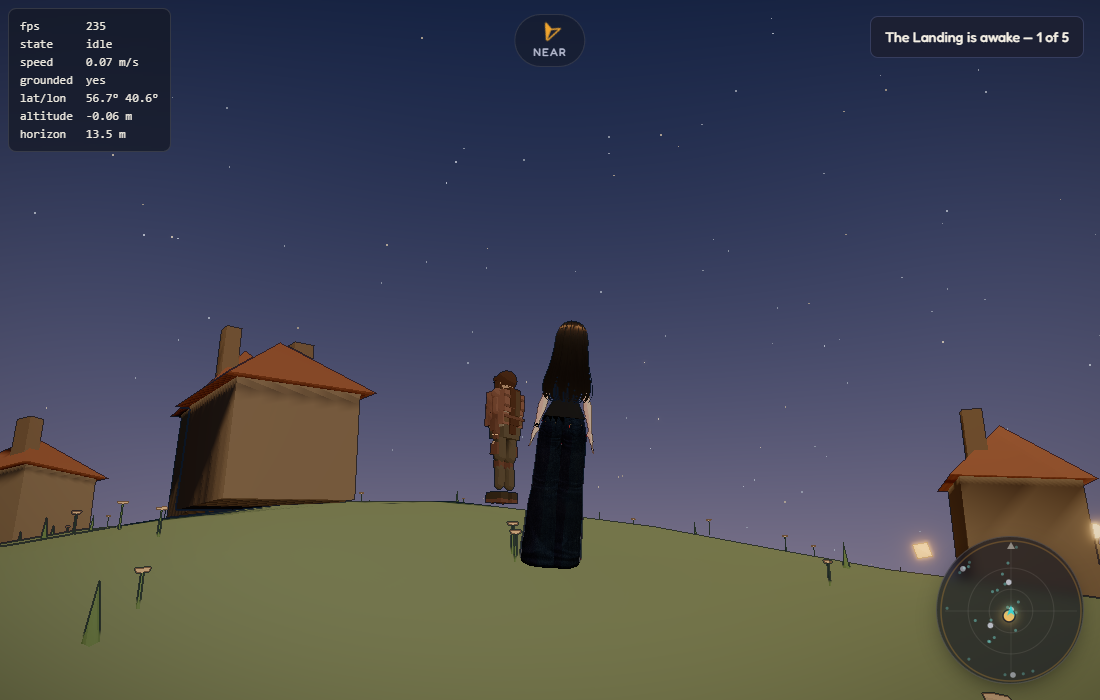
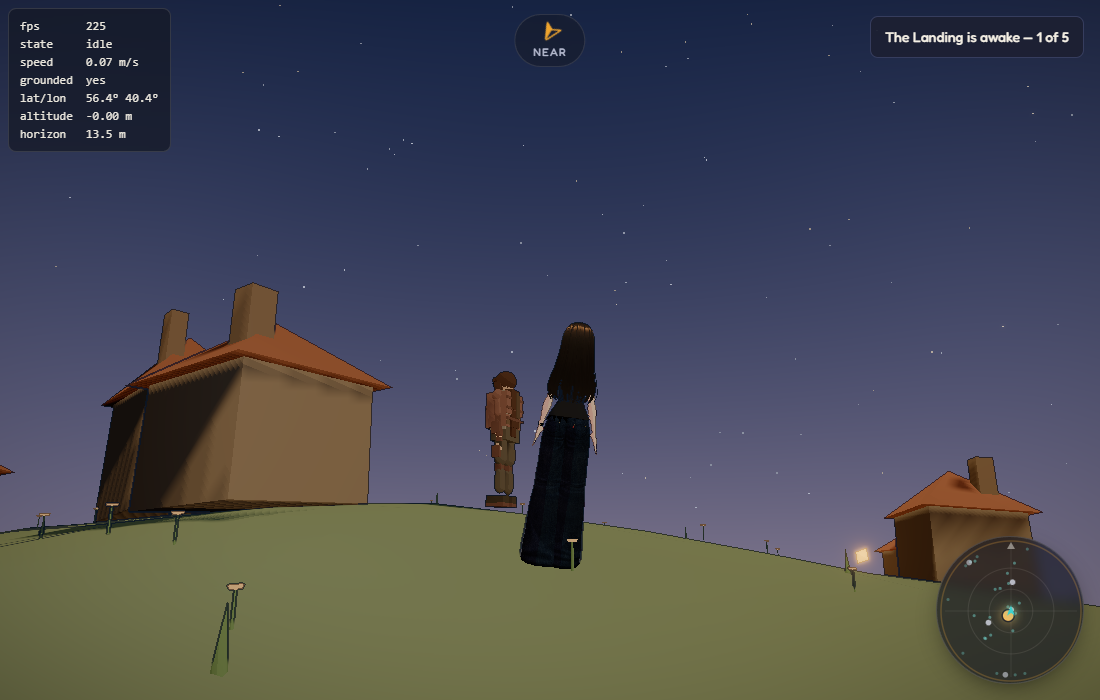
fix: a buried cat, floating gates, and lanterns standing inside cottages
Three placement faults, one cause each.

**Anchoring happened on the scene graph, not on the geometry that is drawn.**
`styliseModel` puts the model's feet at zero by shifting its children, which is
right for a model added as a hierarchy — but instancing throws the hierarchy
away and keeps a single baked geometry, so any node the traversal missed, or
any difference between the group's bounds and the mesh's own, survived as a
vertical offset. That is a cat buried to its ankles and a torii hovering a
hand's width off the grass. `flatten` now measures the baked geometry and
re-anchors it there, which removes the whole class of "why is it floating"
rather than this instance of it.

Verified by measurement rather than by eye: foot offset and origin-to-terrain
gap are both 0.000 for all three imports.

**Prop sets scattered in ignorance of each other.** Every set had its own seed
and its own scatter, so with enough sets on the same ground a stone lantern
ended up standing inside a cottage. `scatterAround` now takes a minimum
separation and a list of points already claimed, and the district passes one
list down, growing it as each set places. Rejection sampling is the right tool
here — the counts are in the dozens and the attempt budget already existed;
anything cleverer would be solving a problem this world does not have.

Separation is stated as a distance, not a hope: 4 m for landmarks because a
cottage is about 4 m across, 4.5 m for village fittings.
[…]

diff --git a/src/game/scenes/PlanetScene.ts b/src/game/scenes/PlanetScene.ts
@@ -600,14 +600,29 @@ export class PlanetScene implements IScene {
 
       this.lampGroups.set(def.id, { district: def.id, lights, bulbs, delays });
 
+      // Everything solid this district has already claimed.
+      //
+      // Each prop set used to scatter in ignorance of the others, so with
+      // enough sets on the same ground a stone lantern ended up standing inside
+      // a cottage. One list, passed down and grown as each set places, is all
+      // the coordination this needs.
+      const taken: THREE.Vector3[] = [...positions];
+
       // District silhouettes — the landmarks the player navigates by, since the
       // horizon is only 13.5 m away and there is no map screen.
+      //
+      // 4 m apart: a cottage is about 4 m across, so this states "do not
+      // overlap" as a distance rather than as a hope.
       const propSpots = scatterAround(
         centre,
         def.id === 'spire' ? 18 : 30,
         def.radius * 0.85,
         def.id.length * 613 + 7,
+        undefined,
+        4,
+        taken,
       );
+      taken.push(...propSpots);
       for (const mesh of buildDistrictProps(def.id, propSpots, def.id.length * 331)) {
         this.world.scene.add(mesh);
         // Scenery has to block the camera, or it parks inside a rock.
@@ -625,7 +640,11 @@ export class PlanetScene implements IScene {
         def.id === 'spire' ? 8 : 14,
         def.radius * 1.15,
         def.id.length * 877 + 31,
+        undefined,
+        4.5,
+        taken,
       );
+      taken.push(...villageSpots);
       // Authored gates and lanterns, with the procedural stalls still carrying
       // the rest.
       //

diff --git a/src/game/world/placement.ts b/src/game/world/placement.ts
@@ -50,6 +50,18 @@ export function scatterAround(
   angularRadiusDeg: number,
   seed: number,
   minAltitude = SEA_LEVEL_RADIUS + 0.4,
+  /**
+   * Metres that must separate this point from every point in `occupied`, and
+   * from the others this call places.
+   *
+   * Without it each prop set scatters in ignorance of the others, and with
+   * enough sets on the same ground you get a stone lantern standing inside a
+   * cottage. Rejection sampling is the right tool here: the counts are in the
+   * dozens, the attempt budget already exists, and anything cleverer would be
+   * solving a problem this world does not have.
+   */
+  minSeparation = 0,
+  occupied: THREE.Vector3[] = [],
 ): THREE.Vector3[] {
   const rng = makeRng(seed);
   const results: THREE.Vector3[] = [];
@@ -79,7 +91,20 @@ export function scatterAround(
 
     const height = PlanetTerrain.heightAt(direction);
     if (height < minAltitude) continue;
-    results.push(direction.multiplyScalar(height));
+
+    const point = direction.multiplyScalar(height);
+
+    if (minSeparation > 0) {
+      // Compared as a straight line rather than a great circle: at these
+      // distances on a 60 m sphere the two differ by millimetres, and the chord
+      // is a subtraction where the arc is an acos per candidate per neighbour.
+      const tooClose =
+        occupied.some((other) => other.distanceToSquared(point) < minSeparation * minSeparation) ||
+        results.some((other) => other.distanceToSquared(point) < minSeparation * minSeparation);
+      if (tooClose) continue;
+    }
+
+    results.push(point);
   }
 
   return results;

diff --git a/src/engine/render/instancedProp.ts b/src/engine/render/instancedProp.ts
@@ -67,6 +67,24 @@ export function flatten(root: THREE.Object3D): {
   // scale and the feet-anchoring offset that `styliseModel` applied.
   geometry.applyMatrix4(mesh.matrixWorld);
 
+  // Re-anchor on the *baked* geometry, which is the only thing that is
+  // actually drawn.
+  //
+  // `styliseModel` anchors the scene graph, and that is correct for a model
+  // added as a hierarchy — but instancing throws the hierarchy away and keeps
+  // only this geometry, and any node the traversal did not pick up, or any
+  // difference between the group's bounds and this mesh's own, survives as a
+  // vertical offset. In play that is a cat buried to its ankles and a torii
+  // hovering a hand's width off the grass. Measuring here removes a whole class
+  // of "why is it floating" by construction.
+  geometry.computeBoundingBox();
+  const minY = geometry.boundingBox?.min.y ?? 0;
+  if (Math.abs(minY) > 1e-4) {
+    geometry.translate(0, -minY, 0);
+    geometry.computeBoundingBox();
+  }
+  geometry.computeBoundingSphere();
+
   const material = Array.isArray(mesh.material) ? mesh.material[0]! : mesh.material;
   return { geometry, material };
 }
